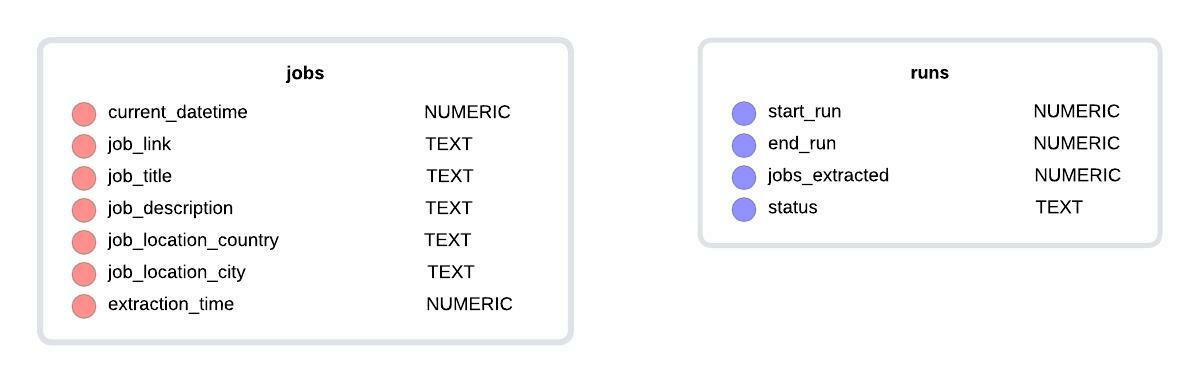
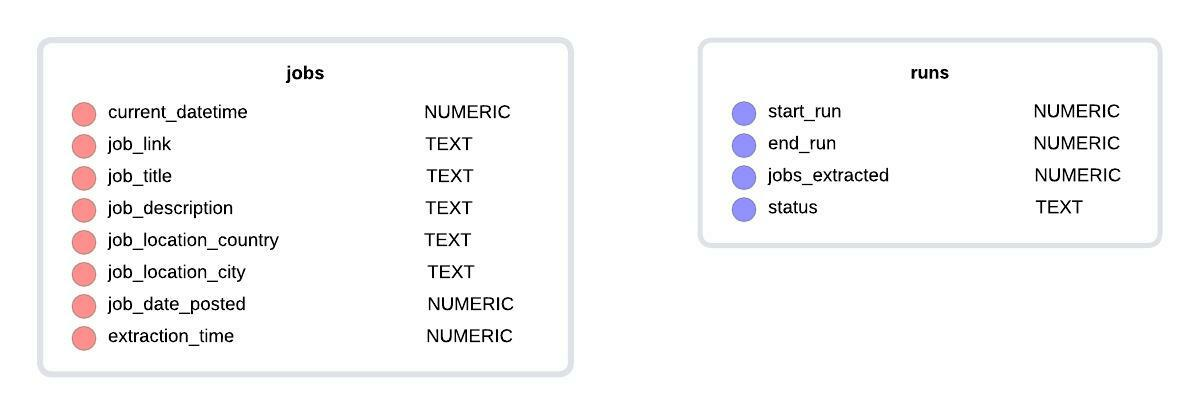
update README.md and ERD with new schema

diff --git a/README.md b/README.md
@@ -18,12 +18,13 @@ The ER diagram is relatively simple because of not much complexity in the data b
 
 `jobs` table stores the job data :
 
-* `current_datetime` : current time stamp the moment a job information is extracted
-* `job_link` : link to the job page
+* `current_datetime` : Current unix timestamp the moment a job information is extracted
+* `job_link` : Link to the job page
 * `job_title` : Title of the position
 * `job_description` : Job description
 * `job_location_country` : Country of job location
 * `job_location_city` : City of job location
+* `job_date_posted` : Unix timestamp of when the job was posted on the site, note that this can be `null`
 * `extraction_time` : Time taken to extract the page containing the job data
 
 `runs` table stores the run status of the scraper during every poll to the site :
